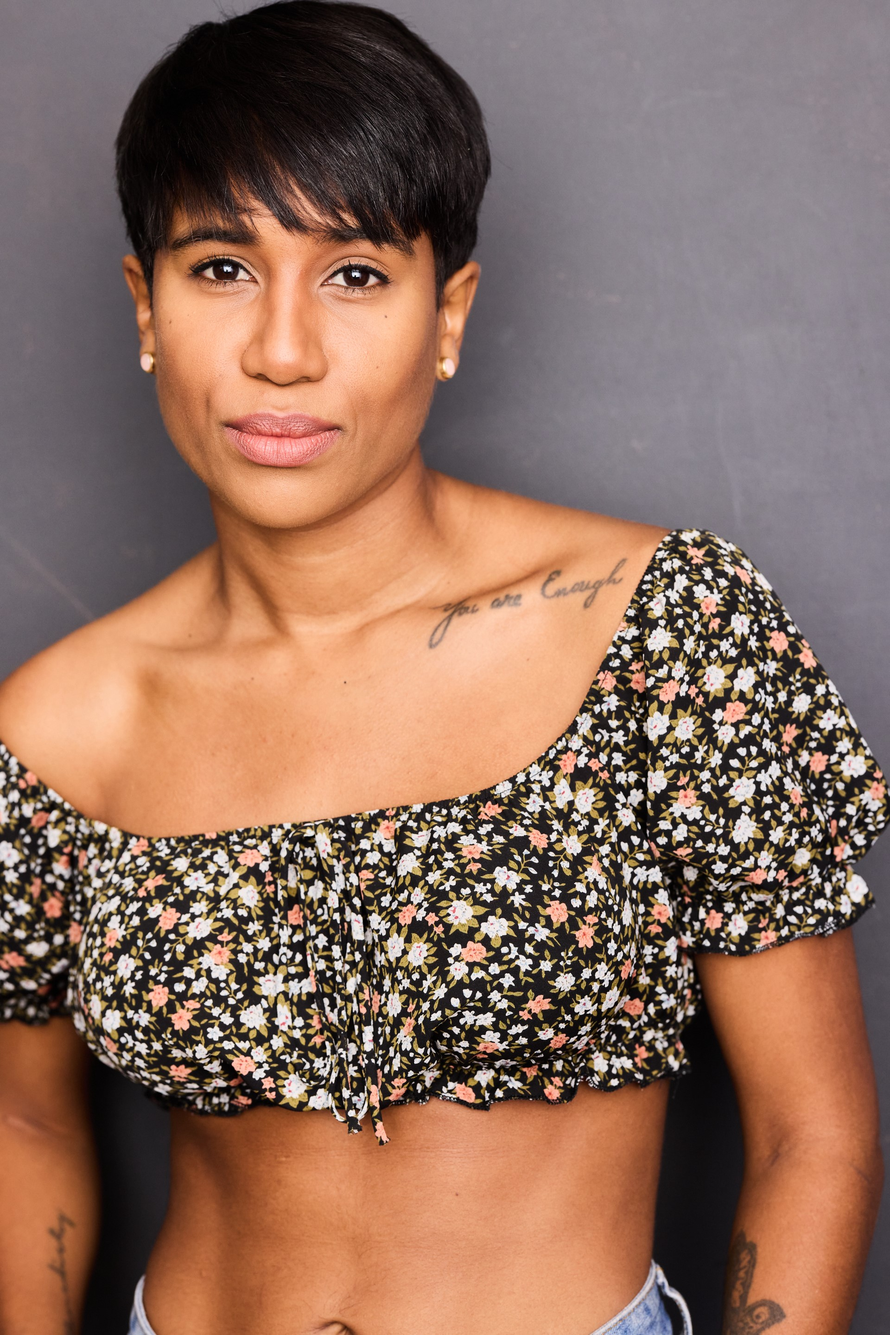
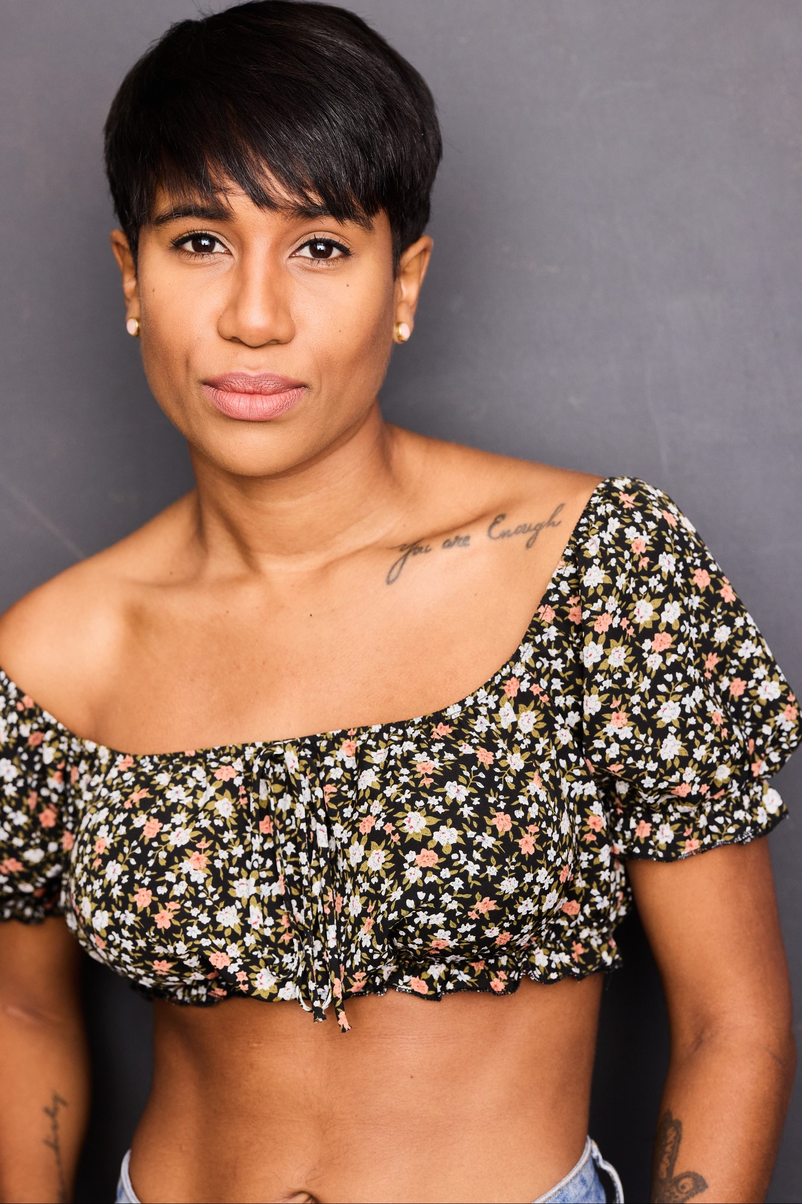
headshots

diff --git a/index.html b/index.html
@@ -59,71 +59,70 @@
       <div id="team">
         <h2><u>The Team</u></h2>
         <p class="teammember">
-          <img id="giselleHS" src="assets/images/Giselle.jpeg" alt="" > <br><br><br><br> 
+          <img class="headshot" src="assets/images/Giselle.jpeg" alt=""> <br><br><br><br> 
           <b>Giselle Miller (Creator/Writer/Executive Producer/Director):</b> Giselle Miller is a Jamaican-Canadian writer, actor and filmmaker living in Vancouver.
           After completing an MFA in Creative Writing at UBC, she went on to write, produce and direct two seasons of the Leo award-nominated web series Young, Single and Black. 
           Giselle also received Leo award nominations for her performance in both seasons. Giselle's productions have been featured in the Women of African Descent Film Festival, 
           the Big Apple Film Festival, the Reel Q: Pittsburgh LGBTQ+ Film Festival and the Roma Shorts Film Festival. 
           She is currently in development on her first feature film Sweet Plantain and is a participant in the 2023 Whistler Screenwriters Lab. 
           Giselle is the founder of Orange Rose Productions, a company dedicated to telling stories that centre black people.  </p>
-           <br><br><br><br><br><br>
+           <br><br><br>
         
           
           <p class="teammember">
-          
-          <b>Nancy Kamar (Producer):</b>
-          
-          Nancy is a Lebanese-Canadian producer with an Economics Honours degree and a background in Film Production. 
+          <img class="headshot" src="assets/images/Nancy.jpeg" alt=""> <br><br><br><br>
+          <b>Nancy Kamar (Producer):</b> Nancy is a Lebanese-Canadian producer with an Economics Honours degree and a background in Film Production. 
           Based in Vancouver, she brings a unique blend of creative vision and logistical expertise to filmmaking, elevating the narratives of emerging filmmakers. 
           Notably, she served as lead producer for the acclaimed Crazy8s short film "High End Dying" and has 
           consulted on projects like UNESCO's initiative on Preventing Violent Extremism in the MENA region, empowering women as creative agents. 
           Nancy's dedication to storytelling is evident in her work as she seeks projects with unique perspectives and societal impact while indulging her love for cinema 
-          as an avid viewer across genres. </p>
-      </div> <br><br><br>
+          as an avid viewer across genres. </p> 
+          <br><br><br><br><br>
+          </div> 
 
       <div id="cast">
-        <h2><u>The Cast</u></h2><br>
+        <h2><u>The Cast</u></h2>
+        
         <p class="teammember">
-
-          <b>Amira Anderson - NOVELETTE (potential):</b>
-
-          Amira Anderson is a Vancouver-based actress, writer, and show creator originally from Niagara Falls, Ontario. 
+        <img class="headshot" src="assets/images/Amira.jpeg" alt=""><br><br><br><br>
+        <b>Amira Anderson - NOVELETTE (potential):</b> Amira Anderson is a Vancouver-based actress, writer, and show creator originally from Niagara Falls, Ontario. 
           She earned a Bachelor of Arts in Theatre Performance and International Studies before studying acting for film and television at 
           Obsidian Theatre Company's Mentor Apprenticeship Program and Vancouver Film School. 
           She has appeared in many commercials and movies for Netflix, Hallmark and Lifetime. 
           Amira has written, produced, and acted in many short films over the years, two of which are proofs of concept for TV series. 
-          Her most recent work has been on Game of Deceit, which premiered on BET+ and her StoryHive Black project, Amara, which is currently streaming on OptikTV. <br><br>
+          Her most recent work has been on Game of Deceit, which premiered on BET+ and her StoryHive Black project, Amara, which is currently streaming on OptikTV. </p> 
+          <br><br><br><br><br>
           
           
-          
-          <b>Ashley Dodd - AUDRE (potential):</b>
-          
-          Ashley Dodd, a multifaceted artist and entrepreneur, hails from Ottawa, Ontario, but has called Vancouver home for the past 15 years. 
+          <p class="teammember">
+          <img class="headshot" src="assets/images/Ashley.jpeg" alt=""><br><br><br><br>
+          <b>Ashley Dodd - AUDRE (potential):</b> Ashley Dodd, a multifaceted artist and entrepreneur, hails from Ottawa, Ontario, but has called Vancouver home for the past 15 years. 
           With a strong foundation in stage theatre, Ashley's journey as an actor has taken her through notable productions including "The Seussification of Romeo and Juliet," 
           "The Laramie Project," and "Gone Mom: The Disappearance of Jennifer Dulos." 
-          Her diverse talents extend beyond acting, as she also explores her passion for music.<br><br>
+          Her diverse talents extend beyond acting, as she also explores her passion for music.</p>
+          <br><br><br><br><br>
+          <br><br><br>
           
-          
-          
-          <b>Stephanie Sequeira - DOMINIQUE (potential):</b>
-          
-          Stephanie Sequeira, born in Toronto and raised in Brazil, began acting at age 14 in Rio, 
+          <img class="headshot" id="stephpic" src="assets/images/Stephanie.jpeg" alt=""><br><br><br><br>
+          <p class="teammember" id="stephtext">
+          <b>Stephanie Sequeira - DOMINIQUE (potential):</b> Stephanie Sequeira, born in Toronto and raised in Brazil, began acting at age 14 in Rio, 
           then at 17 she auditioned for the New York Film Academy in NYC and got a full scholarship to attend it. 
           After graduating she worked on shows such as Hairspray - The Musical and then decided to move to Los Angeles to continue her passion for TV/Film. 
-          She is now living in Vancouver and couldn’t be more excited to continue following her passion. <br><br> 
+          She is now living in Vancouver and couldn’t be more excited to continue following her passion.</p> 
+          <br><br><br><br><br> 
+          <br><br><br>
           
-          
-          
-          <b>Angela Moore - CHELSEA (potential):</b>
-          
-          Angela Moore has been a professional actress for over 25 years in film, TV and theatre. 
+          <p class="teammember">
+          <img class="headshot" src="assets/images/Angela.jpeg" alt=""><br><br><br><br>
+          <b>Angela Moore - CHELSEA (potential):</b> Angela Moore has been a professional actress for over 25 years in film, TV and theatre. 
           Notable performances include guest starring in the Netflix’ A Series of Unfortunate Events, 
           principal roles in Amazon's The Stand and Netflix’ Maid, supporting lead in Lifetime’s 
           The Christmas Aunt and recurring on ABC’s The Good Doctor and A Million Little Things and as Darlene Fowler in the CW’s Nancy Drew. 
           In 2016, she was nominated for a Leo in the Best Supporting Actress category for the web series, CODED. 
-          She is currently a series regular as Bakta on the MGM+ series, FROM.
-        </p>
-      </div> <br><br><br>
+          She is currently a series regular as Bakta on the MGM+ series, FROM.</p>
+          <br><br><br><br><br>
+     
+        </div> 
 
       <div id="campaign">
         <h2><u>Crowdfunding Campaign</u></h2> <br>

diff --git a/assets/css/style.css b/assets/css/style.css
@@ -97,7 +97,9 @@ h3  {
   width: 50%;
   text-align: center;
   }
-
+#team {
+  justify-content: center;
+}
 .teammember  {
     display:block;
     padding-top: 35px;
@@ -111,8 +113,8 @@ h3  {
     
   }
 
- #giselleHS {
-  display: flex;
+ .headshot {
+  display: block;
   margin: 30px;
   float:left;
   justify-self: center;
@@ -122,6 +124,21 @@ h3  {
     border-style: solid;
     border-color: black;
   }
+#stephtext{
+  justify-content: center;
+  text-align: left;
+  padding-left: 30px;
+  word-wrap: break-word;
+  margin-left: 44%;
+  display:block;
+  width:33%;
+}
+#stephpic {
+  
+  display: block;
+  margin-left:-12%;
+  margin-right:auto;
+}
 
 #gogo {
     color: black;
